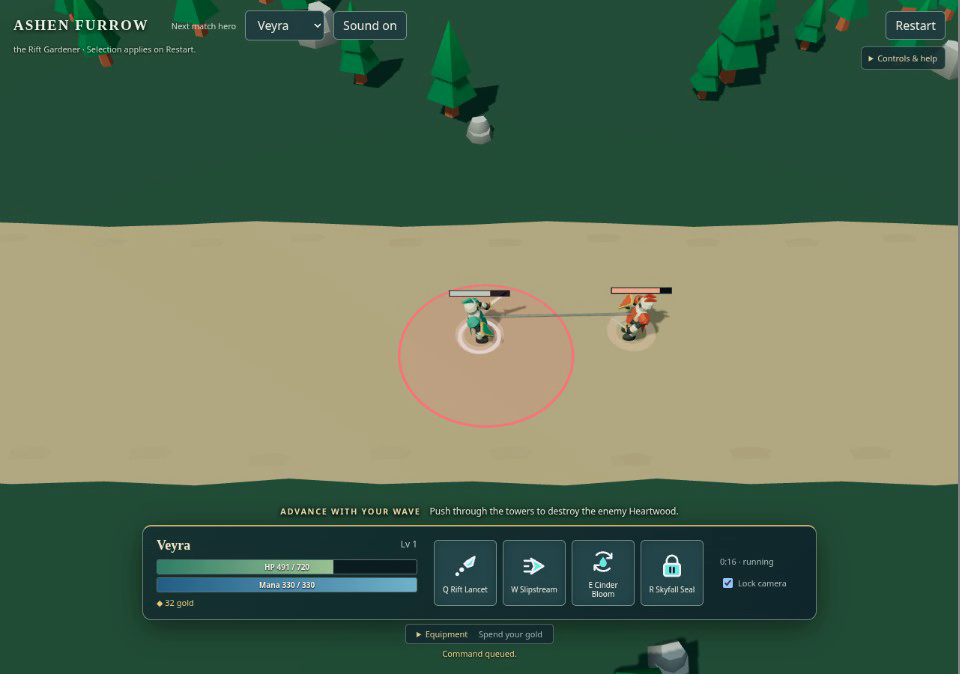
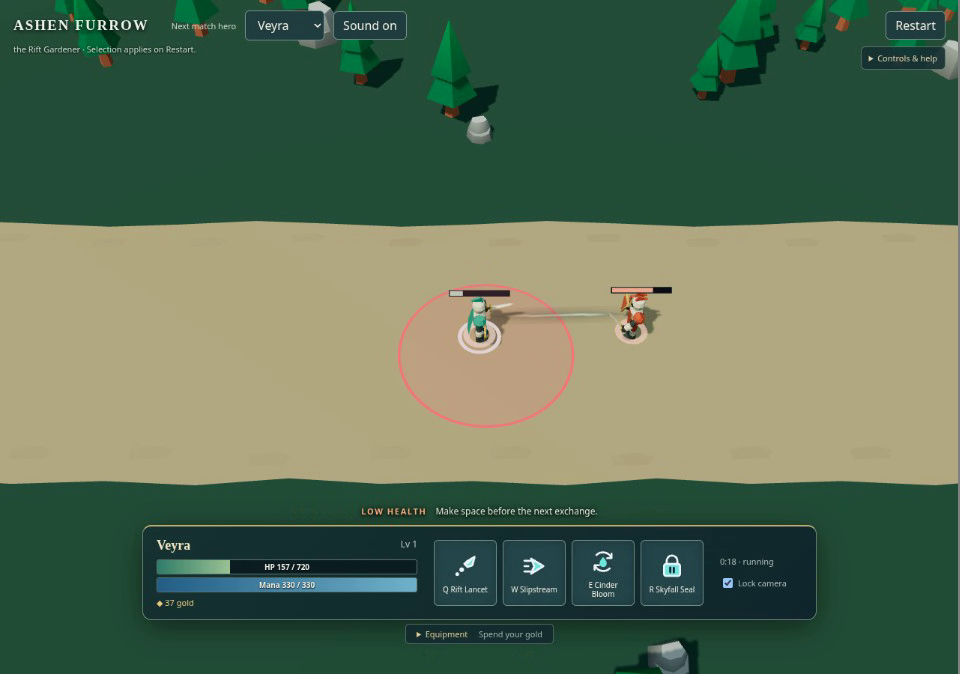
Make instant basic attacks read as authored pale releases rather than dark strings
Use one unmodified CC0 Kenney trace source through bounded UV sampling, with world-owned texture lifetime and geometric fallback if the optional source is unavailable. Keep authoritative endpoints, complete instantaneous release, exact hazard geometry and independent confirmed-hit cues. The ground-fire sample looked muddy and was removed.

Replace quality.md and its own fixed combat frame. Independent native-size comparison and final code/license review accepted the limited release improvement. Final 181 tests, CLI/web builds, full diff/public checks, strict software-WebGL and normal input capture passed. Direction, confirmed-hit priority, crowded death and terrain depth remain the main gaps.

diff --git a/src/render/world.ts b/src/render/world.ts
@@ -1,3 +1,4 @@
+import {loadCombatTextures,type CombatTextures} from './combat-textures.js';
 import {disposeOwnedRenderer} from './owned-renderer.js';
 import {createControlMarkers} from './control-state.js';
 import {createTowerReach} from './tower-reach.js';
@@ -25,13 +26,14 @@ export async function createWorld(host:HTMLElement,catalog:ContentCatalog){
   const focus=new THREE.Vector3(0,0,0);
   scene.add(new THREE.HemisphereLight('#d7e9e3','#3c4333',1.65));
   const light=new THREE.DirectionalLight('#fff0cf',2.5);light.position.set(10,24,12);light.castShadow=true;light.shadow.mapSize.set(1024,1024);Object.assign(light.shadow.camera,{left:-22,right:22,top:22,bottom:-22,near:1,far:70});light.shadow.bias=-.0004;light.shadow.normalBias=.035;scene.add(light,light.target);
+  let combatTextures:CombatTextures|undefined;
   let assets:BattleAssets|undefined,view:Presentation|undefined,statusTexture:THREE.Texture|undefined;
-  try{assets=await loadBattleAssets();statusTexture=await new THREE.TextureLoader().loadAsync(new URL('../../asset-pipeline/icons/exported/bright/control.svg',import.meta.url).href);statusTexture.colorSpace=THREE.SRGBColorSpace;view=createPresentation({catalog,assets:{blue:assets.models['hero-teal']!,amber:assets.models['hero-rust']!},heroesOnly:true});}
-  catch(error){disposeOwnedRenderer(renderer,()=>{statusTexture?.dispose();assets?.dispose();});throw error;}
+  try{assets=await loadBattleAssets();combatTextures=await loadCombatTextures();statusTexture=await new THREE.TextureLoader().loadAsync(new URL('../../asset-pipeline/icons/exported/bright/control.svg',import.meta.url).href);statusTexture.colorSpace=THREE.SRGBColorSpace;view=createPresentation({catalog,assets:{blue:assets.models['hero-teal']!,amber:assets.models['hero-rust']!},heroesOnly:true});}
+  catch(error){disposeOwnedRenderer(renderer,()=>{statusTexture?.dispose();combatTextures?.dispose();assets?.dispose();});throw error;}
   const loadedAssets=assets, presentation=view;
   const battlefield=createBattlefield(catalog,loadedAssets);const actors=new THREE.Group();actors.add(presentation.root,battlefield.root);
   presentation.root.traverse(object=>{if((object as THREE.Mesh).isMesh){object.castShadow=true;object.receiveShadow=true;}});
-  scene.add(actors);const controls=createControlMarkers(scene,statusTexture!);const reach=createTowerReach(scene,catalog);const health=createHealthBars(scene);const effects=createEffects(scene);const impacts=createImpacts(scene);const targeting=createTargeting(scene);let targetingSlot:AbilitySlot|null=null;host.replaceChildren(renderer.domElement);renderer.domElement.tabIndex=0;
+  scene.add(actors);const controls=createControlMarkers(scene,statusTexture!);const reach=createTowerReach(scene,catalog);const health=createHealthBars(scene);const effects=createEffects(scene);const impacts=createImpacts(scene,combatTextures);const targeting=createTargeting(scene);let targetingSlot:AbilitySlot|null=null;host.replaceChildren(renderer.domElement);renderer.domElement.tabIndex=0;
   const ray=new THREE.Raycaster(),plane=new THREE.Plane(new THREE.Vector3(0,1,0),0),hit=new THREE.Vector3();
   const cursor=new THREE.Vector2(0,0);let pointerInside=false;let locked=true;let snapshot:Snapshot|null=null;let playerId:number|null=null;
   const marker=new THREE.Mesh(new THREE.RingGeometry(.65,.8,32),new THREE.MeshBasicMaterial({color:'#d8fbff',side:THREE.DoubleSide,depthWrite:false}));
@@ -70,7 +72,7 @@ export async function createWorld(host:HTMLElement,catalog:ContentCatalog){
     cameraState(){return {locked,position:{x:camera.position.x,y:camera.position.y,z:camera.position.z}};},
     leavePointer(){pointerInside=false;},setLocked(value:boolean){locked=value;},
     groundPoint():Vec2|null{return aim().point;},
-    dispose(){disposeOwnedRenderer(renderer,()=>{window.removeEventListener('resize',onResize);controls.dispose();statusTexture!.dispose();reach.dispose();health.dispose();effects.dispose();impacts.dispose();targeting.dispose();presentation.dispose();battlefield.dispose();loadedAssets.dispose();marker.geometry.dispose();marker.material.dispose();});}
+    dispose(){disposeOwnedRenderer(renderer,()=>{window.removeEventListener('resize',onResize);controls.dispose();statusTexture!.dispose();reach.dispose();health.dispose();effects.dispose();impacts.dispose();combatTextures?.dispose();targeting.dispose();presentation.dispose();battlefield.dispose();loadedAssets.dispose();marker.geometry.dispose();marker.material.dispose();});}
   };
 }
 export type GameWorld=Awaited<ReturnType<typeof createWorld>>;

diff --git a/src/render/impact.ts b/src/render/impact.ts
@@ -1,7 +1,8 @@
 import * as THREE from 'three';
+import type {CombatTextures} from './combat-textures.js';
 import type {Snapshot} from '../sim/types.js';
 /** Short-lived confirmed hero impacts; basic swings get a trail, never a fabricated hit. */
-export function createImpacts(scene:THREE.Scene){
+export function createImpacts(scene:THREE.Scene,textures?:CombatTextures){
   const root=new THREE.Group();root.name='battle-feedback';scene.add(root);
   const geometry=new THREE.RingGeometry(.62,1,20),swingGeometry=new THREE.BufferGeometry().setFromPoints([new THREE.Vector3(),new THREE.Vector3(0,0,1)]);
   // A short instantaneous release streak, not a simulated travelling projectile.
@@ -15,6 +16,7 @@ export function createImpacts(scene:THREE.Scene){
     layer(.16,0,0x203b36);layer(.075,.004,color);
     const value=new THREE.BufferGeometry();value.setAttribute('position',new THREE.Float32BufferAttribute(positions,3));value.setAttribute('color',new THREE.Float32BufferAttribute(colors,3));return value;
   }
+  const texturedStreak=new THREE.PlaneGeometry(.75,1);texturedStreak.rotateX(Math.PI/2);texturedStreak.translate(0,0,.5);
   const heroStreaks=[streakGeometry(0xd8fff0),streakGeometry(0xffd0af)];
   type Burst={object:THREE.Object3D;material:THREE.Material;age:number;duration:number;drawn:boolean};const bursts:Burst[]=[];
   let tick=-1,ordinal=-1;
@@ -39,8 +41,8 @@ export function createImpacts(scene:THREE.Scene){
         if(!source||!target)continue;
         const tower=source.kind==='structure'&&source.structureKind==='tower';
         const hero=source.kind==='hero';
-        const material=hero?new THREE.MeshBasicMaterial({vertexColors:true,transparent:true,opacity:.9,side:THREE.DoubleSide,depthWrite:false}):new THREE.LineBasicMaterial({color:tower?0xffb36a:source.team===0?0xbce8ce:0xf4b29a,transparent:true,opacity:.65,depthWrite:false});
-        const line=hero?new THREE.Mesh(heroStreaks[source.team]!,material):new THREE.Line(swingGeometry,material),dx=target.position.x-source.position.x,dz=target.position.z-source.position.z;
+        const material=hero?new THREE.MeshBasicMaterial({vertexColors:!textures,color:textures?(source.team===0?0xc5fff0:0xffc5a0):0xffffff,map:textures?.release??null,transparent:true,opacity:.9,side:THREE.DoubleSide,depthWrite:false}):new THREE.LineBasicMaterial({color:tower?0xffb36a:source.team===0?0xbce8ce:0xf4b29a,transparent:true,opacity:.65,depthWrite:false});
+        const line=hero?new THREE.Mesh(textures?texturedStreak:heroStreaks[source.team]!,material):new THREE.Line(swingGeometry,material),dx=target.position.x-source.position.x,dz=target.position.z-source.position.z;
         line.name=hero?'hero-release-streak':'unit-release-trail';
         const startY=source.kind==='structure'?4.3:source.kind==='hero'?1.2:.7;
         const endY=target.kind==='hero'?1.2:target.kind==='structure'?2:.7;
@@ -50,5 +52,5 @@ export function createImpacts(scene:THREE.Scene){
       }
     }
   }
-  return {sync,draw(seconds:number){for(let i=bursts.length-1;i>=0;i--){const b=bursts[i]!;if(b.drawn)b.age+=Math.min(Math.max(seconds,0),.1);else b.drawn=true;if(b.age>=b.duration){remove(b);bursts.splice(i,1);continue;}const remaining=1-b.age/b.duration;(b.material as THREE.MeshBasicMaterial).opacity=remaining*.8;if((b.object as THREE.Mesh).isMesh&&b.object.name!=='hero-release-streak')b.object.scale.setScalar(.6+b.age*3);}},dispose(){for(const b of bursts)remove(b);bursts.length=0;scene.remove(root);geometry.dispose();swingGeometry.dispose();for(const value of heroStreaks)value.dispose();}};
+  return {sync,draw(seconds:number){for(let i=bursts.length-1;i>=0;i--){const b=bursts[i]!;if(b.drawn)b.age+=Math.min(Math.max(seconds,0),.1);else b.drawn=true;if(b.age>=b.duration){remove(b);bursts.splice(i,1);continue;}const remaining=1-b.age/b.duration;(b.material as THREE.MeshBasicMaterial).opacity=remaining*.8;if((b.object as THREE.Mesh).isMesh&&b.object.name!=='hero-release-streak')b.object.scale.setScalar(.6+b.age*3);}},dispose(){for(const b of bursts)remove(b);bursts.length=0;scene.remove(root);geometry.dispose();swingGeometry.dispose();texturedStreak.dispose();for(const value of heroStreaks)value.dispose();}};
 }

diff --git a/tests/client/combat-textures.test.ts b/tests/client/combat-textures.test.ts
@@ -1,0 +1,20 @@
+import {afterEach,expect,it,vi} from 'vitest';
+import * as THREE from 'three';
+import {createImpacts} from '../../src/render/impact.js';
+import {makeSim} from '../helpers.js';
+import {loadCombatTextures} from '../../src/render/combat-textures.js';
+afterEach(()=>vi.restoreAllMocks());
+it('loads one source with a bounded UV window and releases the world-owned texture once',async()=>{
+ const source=new THREE.Texture();let disposals=0;source.addEventListener('dispose',()=>disposals++);
+ const load=vi.spyOn(THREE.TextureLoader.prototype,'loadAsync').mockResolvedValue(source);
+ const textures=(await loadCombatTextures())!;expect(load).toHaveBeenCalledTimes(1);expect(load.mock.calls[0]![0]).toContain('trace_02.png');expect(textures.release).toBe(source);expect(source.colorSpace).toBe(THREE.SRGBColorSpace);
+ expect(source.offset.x).toBeGreaterThanOrEqual(0);expect(source.offset.y).toBeGreaterThanOrEqual(0);expect(source.offset.x+source.repeat.x).toBeLessThanOrEqual(1);expect(source.offset.y+source.repeat.y).toBeLessThanOrEqual(1);
+ textures.dispose();textures.dispose();expect(disposals).toBe(1);
+});
+it('keeps the original geometric release available when the optional source fails',async()=>{
+ vi.spyOn(THREE.TextureLoader.prototype,'loadAsync').mockRejectedValue(new Error('source unavailable'));
+ const textures=await loadCombatTextures();expect(textures).toBeUndefined();
+ const scene=new THREE.Scene(),effects=createImpacts(scene,textures),sim=await makeSim(10,61),snapshot=sim.snapshot();
+ effects.sync({...snapshot,events:[{type:'basicAttack',tick:0,ordinal:0,sourceId:snapshot.heroes[0]!.id,targetId:snapshot.heroes[1]!.id}]});
+ const streak=scene.getObjectByName('hero-release-streak') as THREE.Mesh;expect(streak.geometry.getAttribute('position').count).toBe(18);expect((streak.material as THREE.MeshBasicMaterial).map).toBeNull();effects.dispose();
+});

diff --git a/tests/client/impact-first-frame.test.ts b/tests/client/impact-first-frame.test.ts
@@ -32,3 +32,14 @@ describe('actual impact first presentation frame',()=>{
   fx.sync({...snapshot,events});fx.sync({...snapshot,events});const root=scene.getObjectByName('battle-feedback')!;expect(root.children).toHaveLength(48);fx.draw(.25);expect(root.children).toHaveLength(48);fx.draw(.1);fx.draw(.1);expect(root.children).toHaveLength(0);fx.dispose();expect(scene.children).toHaveLength(0);
  });
 });
+
+it('uses shared source textures without taking their ownership or changing release endpoints',async()=>{
+ const sim=await makeSim(10,61),snapshot=sim.snapshot(),scene=new THREE.Scene();
+ const release=new THREE.Texture();let releases=0;release.addEventListener('dispose',()=>releases++);
+ const textures={release,dispose(){release.dispose();}},fx=createImpacts(scene,textures);
+ const source=snapshot.heroes[0]!,target=snapshot.heroes[1]!;
+ fx.sync({...snapshot,events:[{type:'basicAttack',tick:snapshot.tick,ordinal:0,sourceId:source.id,targetId:target.id}]});fx.draw(.25);
+ const streak=scene.getObjectByName('hero-release-streak') as THREE.Mesh;expect((streak.material as THREE.MeshBasicMaterial).map).toBe(release);
+ streak.updateMatrixWorld(true);expect(streak.localToWorld(new THREE.Vector3(0,0,1)).distanceTo(new THREE.Vector3(target.position.x,1.2,target.position.z))).toBeLessThan(1e-6);
+ fx.dispose();expect(releases).toBe(0);textures.dispose();expect(releases).toBe(1);
+});

diff --git a/src/render/combat-textures.ts b/src/render/combat-textures.ts
@@ -1,0 +1,12 @@
+import * as THREE from 'three';
+export type CombatTextures={release:THREE.Texture;dispose():void};
+/** One shared source texture, owned by one world, never by a burst. */
+export async function loadCombatTextures():Promise<CombatTextures|undefined>{
+  // This cosmetic source must not stop an otherwise playable match.
+  const release=await new THREE.TextureLoader().loadAsync(new URL('../../asset-pipeline/combat-vfx/source/trace_02.png',import.meta.url).href).catch(()=>undefined);
+  if(!release)return undefined;
+  release.colorSpace=THREE.SRGBColorSpace;
+  // Sample the useful authored streak rather than stretching its empty margins.
+  release.offset.set(200/512,80/512);release.repeat.set(112/512,400/512);
+  let disposed=false;return {release,dispose(){if(disposed)return;disposed=true;release.dispose();}};
+}

diff --git a/docs/quality.md b/docs/quality.md
@@ -6,7 +6,7 @@
 
 ![正常 A 攻击移动中的出手联系](quality/basic-release.png)
 
-固定源 `8386a91`（正式 `69d1588` 的相同运行代码），2026-10-26 正常 A＋左键连续录像的 17.45 秒原尺寸帧。图中的短连接表示已承诺的普攻，不是飞行弹道或命中证明。红区仍是敌方技能范围。
+固定源 `0d0dbc3`，2026-10-26 正常 A＋左键连续录像约 19.6 秒的原尺寸抽帧。图中的短连接表示已承诺的普攻，不是飞行弹道或命中证明。红区仍是敌方技能范围。
 
 ![实际交战中的小兵倒下尾段](quality/minion-tail.png)
 
@@ -15,14 +15,14 @@
 ## 已采用的改变
 
 - 普攻短反馈至少保留首次绘制机会，避免长帧在首绘前把短效果删掉；致死清理后的出手端点只从同批权威死亡事件补全。
-- 英雄普攻从一像素线变成窄几何连接，跨红色技能区仍能看见源与目标的联系。
+- 英雄普攻使用 [Kenney CC0 原始短束纹理](../asset-pipeline/combat-vfx/README.md)，整段瞬时出现并淡出。比细暗几何线更容易在浅色路面上读到出手联系，原范围边界和独立命中环保持。
 - 小兵不再当帧消失，而是播放已有死亡动作；没有把倒下表现重新放回战斗或选择集合。
 
-非作者按原尺寸与连续帧复看后，接受源目标联系可见、死亡不再硬切这两项有限改善。两段使用正常输入而非改写模拟状态；不把不同战斗时刻称为同帧 A/B。
+非作者按原尺寸与连续帧复看后，接受淡色短束比旧暗绳更像一次出手，以及死亡不再硬切这两项有限改善。两段使用正常输入而非改写模拟状态；不把不同战斗时刻称为同帧 A/B。
 
 ## 最大差距与下一步
 
-1. **谁在打谁仍不够直观**：连接像细暗绳，方向和目标侧命中确认弱。下一步优先改善源端与目标端的不同形状及主次，不用假飞行延迟修改瞬时结算。
+1. **谁在打谁仍不够直观**：短束的源目标联系更清楚，但发起方向和目标侧命中确认仍弱；同时出现的范围技能更抢注意。下一步统一普攻、命中与区域预警的主次，不用假飞行延迟修改瞬时结算。
 2. **死亡被活单位遮住**：倒下动作虽连续，群中仍像少了一个轮廓；先解决动作轮廓与遮挡，不用大光柱代替死亡动作。
 3. **场景与声画层次不足**：宽直平涂道路缺少参照的空间层次；声音尚无实际主观听验，接线成功不能代填听感。
 

diff --git a/asset-pipeline/combat-vfx/README.md b/asset-pipeline/combat-vfx/README.md
@@ -1,0 +1,5 @@
+# Instant release texture
+
+One unmodified transparent PNG, `trace_02.png`, from [Kenney Particle Pack 1.1](https://kenney.nl/assets/particle-pack), CC0. `manifest.json` fixes the official archive and selected source hash; `LICENSE.txt` preserves the supplied attribution and terms with normalized text whitespace.
+
+The complete streak appears at the authoritative basic-attack event; it is not a travelling projectile or confirmed-hit marker. Gameplay timing, exact hazard boundaries and the independent confirmed-damage ring stay unchanged. The renderer samples the useful authored streak through a UV window and tints it by team. The texture belongs to one world, not each burst; change UV, scale and tint in the consumer for a second edit while preserving the source. Judge the result at the actual combat camera scale.
